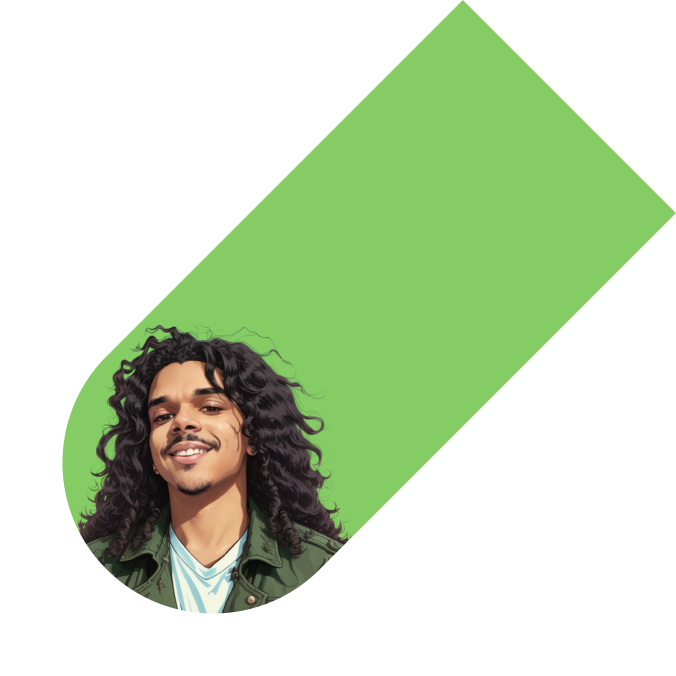
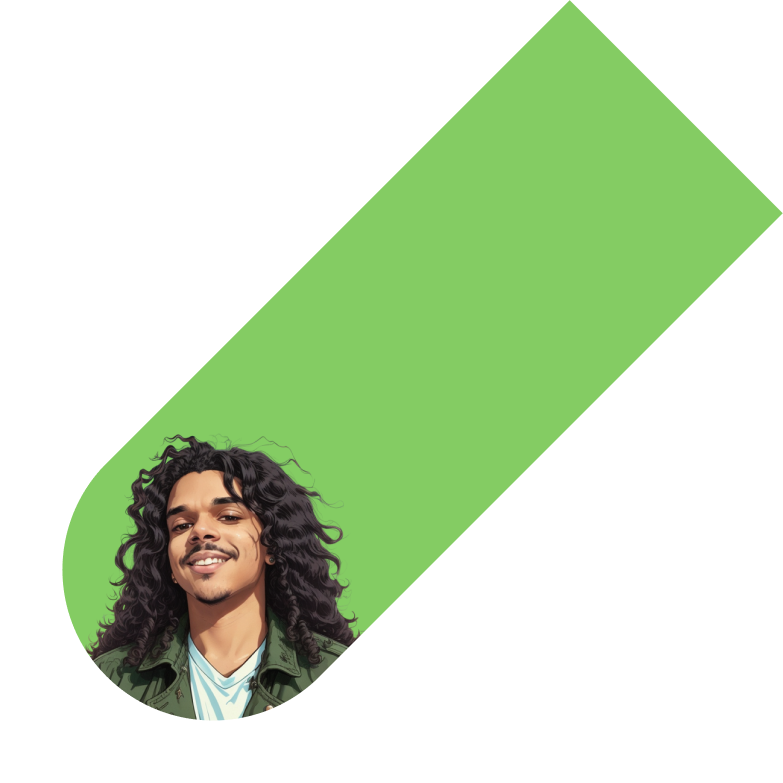
Inicio produção home

Changed region(s): [[0.0621, 0.0, 1.0, 0.932]]

diff --git a/src/components/Home/index.tsx b/src/components/Home/index.tsx
@@ -1,0 +1,28 @@
+import React from "react";
+import bannerHome from "../../assets/home.png";
+import { ThemeContext } from "../../ThemeContext";
+import "./Home.scss";
+
+const Home = () => {
+  const { theme } = React.useContext(ThemeContext);
+
+  return (
+    <div className={`home ${theme}`}>
+      <div className={`home__text`}>
+        <h3>Olá, eu sou o </h3>
+        <h1>Pedro Augusto</h1>
+        <h3>Sou um programador Full Stack</h3>
+        <p>
+          Altamente qualificado e com experiência em desenvolvimento de
+          software. Minhas habilidades excepcionais em programação me permitem
+          oferecer soluções criativas e eficazes para meus clientes.
+        </p>
+      </div>
+      <div>
+        <img src={bannerHome} alt="foto Pedro Augusto" />
+      </div>
+    </div>
+  );
+};
+
+export default Home;

diff --git a/src/components/Header/ButtonDarkMode/index.tsx b/src/components/Header/ButtonDarkMode/index.tsx
@@ -1,7 +1,7 @@
 import React from "react";
-import { ThemeContext } from "../../ThemeContext";
-import Sun from "../../assets/sol.svg";
-import Moon from "../../assets/lua.svg";
+import { ThemeContext } from "../../../ThemeContext";
+import Sun from "../../../assets/sol.svg";
+import Moon from "../../../assets/lua.svg";
 import "./ButtonDarkMode.scss";
 
 const ButtonDarkMode = () => {
@@ -17,12 +17,7 @@ const ButtonDarkMode = () => {
   return (
     <div className={`${theme} buttonDarkMode`} onClick={handleClick}>
       <div className={`${theme} divButton`}>
-        <img
-          src={theme === "dark" ? Moon : Sun}
-          alt="Your SVG"
-          width={18}
-          height={18}
-        />
+        <img src={theme === "dark" ? Moon : Sun} alt="Your SVG" />
       </div>
     </div>
   );

diff --git a/src/components/Header/index.tsx b/src/components/Header/index.tsx
@@ -1,8 +1,8 @@
 import React from "react";
-import { ThemeContext } from "../ThemeContext";
-import ButtonDarkMode from "./ButtonDarkMode/ButtonDarkMode";
-import logoLight from "../assets/logoLight.svg";
-import logoDark from "../assets/logoDark.svg";
+import { ThemeContext } from "../../ThemeContext";
+import ButtonDarkMode from "./ButtonDarkMode";
+import logoLight from "../../assets/logoLight.svg";
+import logoDark from "../../assets/logoDark.svg";
 import "./Header.scss";
 
 const Header = () => {
@@ -11,6 +11,7 @@ const Header = () => {
   return (
     <div className={`${theme} header`}>
       <img
+        className={`logo`}
         src={theme === "light" ? logoLight : logoDark}
         alt="LogoPedro Augusto"
       />

diff --git a/src/components/Home/Home.scss b/src/components/Home/Home.scss
@@ -1,0 +1,40 @@
+@import "../../sass/mixins_variable";
+
+.home {
+  display: grid;
+  font-family: $font-1;
+  grid-template-columns: 2fr 1fr;
+  color: $c-10;
+
+  div {
+    position: relative;
+
+    img {
+      width: 60rem;
+      position: absolute;
+      top: -28rem;
+      left: -8rem;
+    }
+
+    p {
+      font-family: $font-2;
+      max-width: 80%;
+      font-size: 1rem;
+      line-height: 1.2rem;
+    }
+
+    h3 {
+      font-size: 1.8rem;
+      line-height: 2.5rem;
+    }
+
+    h1 {
+      font-size: 3.75rem;
+      line-height: 4.125rem;
+    }
+  }
+
+  &.dark {
+    color: $c-1;
+  }
+}

diff --git a/src/App.tsx b/src/App.tsx
@@ -1,7 +1,8 @@
 import React from "react";
 import { ThemeContext } from "./ThemeContext";
 import "./App.scss";
-import Header from "./Header/Header";
+import Header from "./components/Header";
+import Home from "./components/Home";
 
 const App = () => {
   const [theme, setTheme] = React.useState<ThemeContextType>("light");
@@ -10,6 +11,7 @@ const App = () => {
       <main className={`${theme}`}>
         <div className={`container ${theme}`}>
           <Header />
+          <Home />
         </div>
       </main>
     </ThemeContext.Provider>

diff --git a/src/components/Header/ButtonDarkMode/ButtonDarkMode.scss b/src/components/Header/ButtonDarkMode/ButtonDarkMode.scss
@@ -1,4 +1,4 @@
-@import "../../sass/_mixins_variable.scss";
+@import "../../../sass/_mixins_variable.scss";
 
 .buttonDarkMode {
   width: 4rem;
@@ -11,6 +11,7 @@
   background-color: $c-1;
   position: relative;
   cursor: pointer;
+  z-index: 10;
 
   &.dark {
     background-color: $p-9;
@@ -27,6 +28,11 @@
   align-items: center;
   justify-content: center;
   position: absolute;
+
+  img {
+    width: 1.2rem;
+    height: 1.2rem;
+  }
 
   &.dark {
     background-color: $p-6;

diff --git a/src/components/Header/Header.scss b/src/components/Header/Header.scss
@@ -1,10 +1,15 @@
-@import "../sass/mixins_variable";
+@import "../../sass/mixins_variable";
 
 .header {
   display: flex;
   align-items: center;
   justify-content: space-between;
   padding: 1rem 0;
+
+  .logo {
+    width: 10rem;
+    height: 2rem;
+  }
 
   ul {
     display: flex;
@@ -21,6 +26,10 @@
       font-family: $font-1;
       font-size: 1.25rem;
       color: $c-10;
+    }
+    .header__contato {
+      z-index: 10;
+      position: relative;
     }
   }
 

diff --git a/src/App.scss b/src/App.scss
@@ -6,6 +6,14 @@
   box-sizing: border-box;
 }
 
+html {
+  overflow-x: hidden;
+}
+
+main {
+  height: 100vh;
+}
+
 main.dark,
 .dark {
   background-color: $c-9;
@@ -23,4 +31,9 @@ main.light,
 .container {
   max-width: $lg-device;
   margin: 0 auto;
+}
+
+img {
+  width: 100%;
+  display: inline-block;
 }
